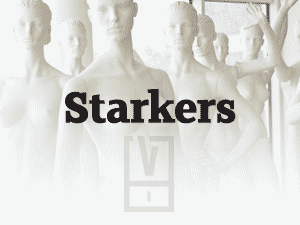
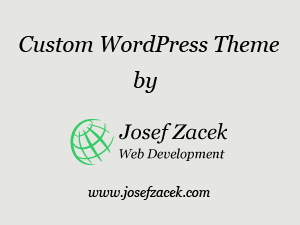
updated styles.css and screenshot

Changed region(s): [[0.06, 0.0, 1.0, 0.7467], [0.27, 0.8089, 0.72, 0.9022], [0.99, 0.1556, 1.0, 0.1867]]

diff --git a/style.css b/style.css
@@ -1,80 +1,18 @@
 /*
-Theme Name: 	Starkers
-Theme URI: 		http://viewportindustries.com/products/starkers
-Description: 	The totally nude Wordpress theme!
+Theme Name: 	Josef Zacek
+Description: 	josef Zacek - totally nude Wordpress theme!
 Version: 		4.0
-Author: 		Elliot Jay Stocks & Keir Whitaker
-Author URI: 	http://viewportindustries.com
-Tags: 			starkers, naked, clean, basic
+Author: 		Josef Zacek
+Author URI: 	http://josefzacek.com
+Tags: 			naked, clean, basic
 */
 
-/*
-===========================
-CONTENTS:
 
-01 Sensible defaults
-02 Typography
-03 Media queries 
-===========================
-*/
 
 /* ---------------------------------------------------------------------------------------------------------- 
-01 Sensible defaults ----------------------------------------------------------------------------------------
+import reset.css 
 ---------------------------------------------------------------------------------------------------------- */
 
 @import "css/reset.css";
 
-div,
-article,
-section,
-header,
-footer,
-nav,
-li					{ position:relative; /* For absolutely positioning elements within containers (add more to the list if need be) */ }
-.group:after 		{ display:block; height:0; clear:both; content:"."; visibility:hidden; /* For clearing */ }
-body 				{ background:#fff; /* Don't forget to style your body to avoid user overrides */ }
-::-moz-selection 	{ background:#ff0; color:#333; }
-::selection 		{ background:#ff0; color:#333; }
-
-/* ---------------------------------------------------------------------------------------------------------- 
-02 Typography -----------------------------------------------------------------------------------------------
----------------------------------------------------------------------------------------------------------- */
-/*
-
-14 / 16	= 		0.875em 		(14px equivalent)
-16 / 16	= 		1em 			(16px equivalent)
-18 / 16 = 		1.125em 		(18px equivalent)
-21 / 16 = 		1.3125em 		(21px equivalent)
-24 / 16 = 		1.5em 			(24px equivalent)
-30 / 16 = 		1.875em 		(30px equivalent)
-
-*/
-
-body,
-input,
-textarea 			{ /* We strongly recommend you declare font-weight using numerical values, but check to see which weights you're exporting first */ }
-
-h1, 
-h2, 
-h3, 
-h4, 
-h5, 
-h6 					{ font-weight:bold; /* This helps to identify headings at the initial build stage, but you should write something more precise later on */ }
-
-/* ---------------------------------------------------------------------------------------------------------- 
-03 Media queries (using a mobile-first approach) ------------------------------------------------------------
----------------------------------------------------------------------------------------------------------- */
-
-/* 400 and up */
-@media screen and (min-width:400px) {
-
-					{ /* Place your styles here for all widths greater than 400px */ }
-
-}
-
-/* Retina Display */
-@media screen and (-webkit-min-device-pixel-ratio:2) {
-
-					{ /* Place your styles here for all 'Retina' screens */ }
-
-}
+/* custom styles*/
